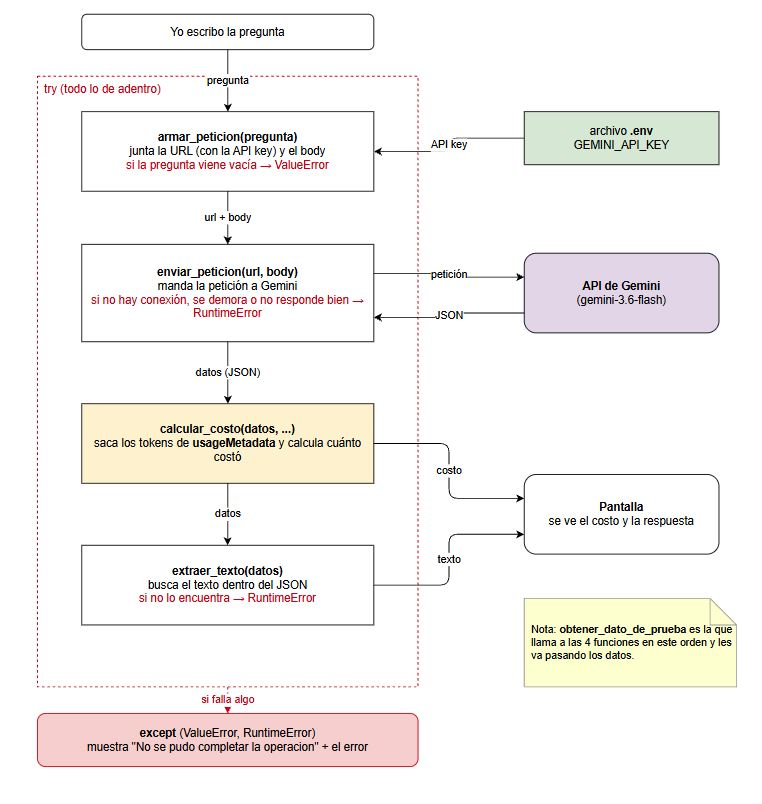
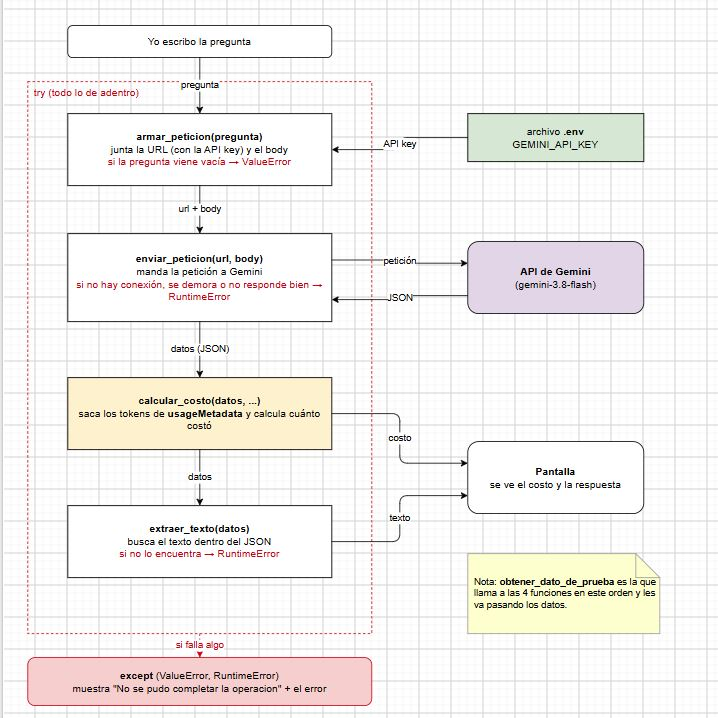
docs: documenta decisión de arquitectura: elección de modelo

Changed region(s): [[0.0, 0.0, 0.9499, 1.0], [0.6435, 0.7354, 0.9805, 0.8886], [0.0, 0.0, 0.0306, 0.0613]]

diff --git a/src/comparar_modelos.py b/src/comparar_modelos.py
@@ -1,0 +1,106 @@
+import time
+
+# Reutilizo las funciones que ya tengo en consumir_gemini.py
+from consumir_gemini import armar_peticion, enviar_peticion, extraer_texto, calcular_costo
+
+# Los 3 modelos a comparar, con su precio POR TOKEN (USD).
+# Fuente: https://ai.google.dev/gemini-api/docs/pricing (consultado el 20-10-2026)
+# La página da el precio por 1 millón de tokens, por eso se divide por 1_000_000.
+MODELOS = {
+    "gemini-3.1-flash-lite": {"entrada": 0.25 / 1_000_000, "salida": 1.50 / 1_000_000},
+    "gemini-3.6-flash":      {"entrada": 0.75 / 1_000_000, "salida": 3.75 / 1_000_000},
+    "gemini-3.8-flash":      {"entrada": 0.75 / 1_000_000, "salida": 3.75 / 1_000_000},
+}
+
+REPETICIONES = 4
+
+# La MISMA pregunta para todos los modelos, relacionada con mi proyecto
+PREGUNTA = (
+    "Trabajé desde el 1 de marzo de 2022 hasta el 15 de septiembre de 2026 con contrato "
+    "indefinido. Mi sueldo era de $850.000 mensuales. Me despidieron por necesidades de la "
+    "empresa y no me dieron aviso previo. ¿Qué me corresponde en el finiquito? "
+    "Responde en máximo 150 palabras e indica los artículos del Código del Trabajo."
+)
+
+
+MAX_INTENTOS = 3   # cuántas veces reintentar si el servicio está saturado
+ESPERA_BASE = 5    # segundos de espera antes del primer reintento (después 10, 15...)
+
+
+# envía la petición y, si Gemini responde 503 (saturado) o 429 (límite de uso),
+# espera un poco y vuelve a intentar. Devuelve los datos y la latencia del intento exitoso.
+def enviar_con_reintentos(url, body):
+    for intento in range(1, MAX_INTENTOS + 1):
+        try:
+            inicio = time.perf_counter()  # empieza el contador
+            datos = enviar_peticion(url, body)
+            fin = time.perf_counter()  # termina el contador
+            return datos, fin - inicio
+        except RuntimeError as error:
+            es_temporal = "503" in str(error) or "429" in str(error)
+            if es_temporal and intento < MAX_INTENTOS:
+                espera = ESPERA_BASE * intento
+                print(f"   (intento {intento} falló: {error}. Reintentando en {espera} s...)")
+                time.sleep(espera)  # la espera queda FUERA del cronómetro
+            else:
+                raise  # no es temporal o se acabaron los intentos: el error sube
+
+
+# hace 4 veces la misma petición con UN modelo e imprime latencia, costo y respuesta
+def probar_modelo(modelo, pregunta):
+    precios = MODELOS[modelo]
+    latencias = []
+    costos = []
+
+    print("\n" + "=" * 70)
+    print(f"MODELO: {modelo}")
+    print("=" * 70)
+
+    for i in range(REPETICIONES):
+        print(f"\n--- Petición {i + 1} de {REPETICIONES} ---")
+        # el try va DENTRO del for: si falla una petición, no se pierden las demás
+        try:
+            url, body = armar_peticion(pregunta, modelo)
+            datos, latencia = enviar_con_reintentos(url, body)
+            costo = calcular_costo(datos, precios["entrada"], precios["salida"])
+            texto = extraer_texto(datos)
+        except (ValueError, RuntimeError) as error:
+            print(f"Petición fallida: {error}")
+            continue  # salta a la siguiente petición
+
+        latencias.append(latencia)
+        costos.append(costo)
+
+        print(f"Latencia: {latencia:.2f} segundos")
+        print(f"Costo: ${costo:.6f} USD")
+        print(f"Respuesta:\n{texto}")
+
+        time.sleep(2)  # pausa fuera del cronómetro, para no chocar con el límite de uso (error 429)
+
+    exitosas = len(latencias)
+    if exitosas == 0:
+        print(f"\n>> {modelo}: ninguna petición funcionó")
+        return None
+
+    promedio_latencia = sum(latencias) / exitosas
+    promedio_costo = sum(costos) / exitosas
+    print(f"\n>> Promedio {modelo} ({exitosas}/{REPETICIONES} exitosas): "
+          f"{promedio_latencia:.2f} s | ${promedio_costo:.6f} USD")
+    return promedio_latencia, promedio_costo, exitosas
+
+
+if __name__ == "__main__":
+    resultados = {}
+    for modelo in MODELOS:
+        resultados[modelo] = probar_modelo(modelo, PREGUNTA)
+
+    print("\n" + "=" * 70)
+    print("RESUMEN")
+    print("=" * 70)
+    print(f"{'Modelo':<25}{'Exitosas':>10}{'Latencia prom.':>16}{'Costo prom. (USD)':>20}")
+    for modelo, resultado in resultados.items():
+        if resultado is None:
+            print(f"{modelo:<25}{'0/' + str(REPETICIONES):>10}{'-':>16}{'-':>20}")
+        else:
+            latencia, costo, exitosas = resultado
+            print(f"{modelo:<25}{f'{exitosas}/{REPETICIONES}':>10}{latencia:>14.2f} s{costo:>20.6f}")

diff --git a/src/consumir_gemini.py b/src/consumir_gemini.py
@@ -1,45 +1,43 @@
 import os
 import requests
 from dotenv import load_dotenv
+import time
 
 load_dotenv()
 
 #Constantes
-MODELO = "gemini-3.6-flash"
+MODELO = "gemini-3.8-flash"  #elegido en docs/decision-arquitectura.md
 URL_BASE = "https://generativelanguage.googleapis.com/v1beta/models/"
 API_KEY = os.getenv("GEMINI_API_KEY")
 
 #función para crear la solicitud
-def armar_peticion(pregunta): #pregunta = "Confirma la conexion"
+#modelo=MODELO: si no le paso un modelo, usa el de siempre
+def armar_peticion(pregunta, modelo=MODELO):
     if not pregunta:
         raise ValueError("La pregunta no puede estar vacia")
-    url = f"{URL_BASE}{MODELO}:generateContent?key={API_KEY}" #url = "https://generativelanguage.googleapis.com/v1beta/models/gemini-3.6-flash:generateContent?key=MI API KEY"
+    url = f"{URL_BASE}{modelo}:generateContent?key={API_KEY}"
     body = {
-        "contents": 
+        "contents":
             [{"parts": [{"text": pregunta}]}]
         }
     return url, body
 
-#armar_peticion_openai -> url, body
-
 #función envía la petición
 def enviar_peticion(url, body):
     try:
-        respuesta = requests.post(url, json=body)
+        respuesta = requests.post(url, json=body, timeout=60) #sin timeout, el except Timeout nunca se activa
     except requests.exceptions.ConnectionError:
         raise RuntimeError("No se pudo conectar con el servicio. Intenta dentro de unos momentos")
     except requests.exceptions.Timeout:
         raise RuntimeError("Se agoto el tiempo. Intenta en unos momentos")
 
     if respuesta.status_code != 200:
-        raise RuntimeError(f"la respuesta del servicio no llego en el formato esperado")
+        raise RuntimeError(f"El servicio respondio con error {respuesta.status_code}")
 
     try:
         return respuesta.json()
     except requests.exceptions.JSONDecodeError:
         raise RuntimeError("La respuesta del servicio no llego en el formato esperado")
-
-    
 
 #funcion procesa y extrae dato
 def extraer_texto(datos): #Gemini
@@ -48,29 +46,31 @@ def extraer_texto(datos): #Gemini
     except (KeyError, IndexError):
         raise RuntimeError("la respuesta no recibe el texto generado en el lugar definido.")
 
-def obtener_dato_de_prueba(pregunta): #pregunta = "Confirma la conexion"
+def obtener_dato_de_prueba(pregunta):
     url, body = armar_peticion(pregunta) #obtiene url y body
-    #url = resultado de armar_peticion
-    #body = resultado de armar_peticion
+
+    inicio = time.perf_counter() #empezar contador
     datos = enviar_peticion(url, body)
+    fin = time.perf_counter() #termina el contador
+    latencia = fin - inicio
+    print(f"Latencia {latencia:.2f} segundos")
+
     costo = calcular_costo(datos, 0.00000075, 0.00000375)
     print(f"Costo de la peticion: ${costo:.6f} USD")
     return extraer_texto(datos)
 
-#def calcular_costo(datos: dict, precio_entrada: float, precio_salida: float) - float:
-def calcular_costo(datos, precio_entrada, Precio_salida):
+def calcular_costo(datos, precio_entrada, precio_salida):
     uso = datos["usageMetadata"]
     tokens_entrada = uso["promptTokenCount"]
-    tokens_salida = uso["candidatesTokenCount"]
-    tokens_razonamiento = uso["thoughtsTokenCount"]
-    costo = (tokens_entrada * precio_entrada) + ((tokens_salida + tokens_razonamiento) * Precio_salida)
+    tokens_salida = uso.get("candidatesTokenCount", 0)
+    tokens_razonamiento = uso.get("thoughtsTokenCount", 0) #si el modelo no "piensa", este campo no viene
+    costo = (tokens_entrada * precio_entrada) + ((tokens_salida + tokens_razonamiento) * precio_salida)
     return costo
 
-try:
-    print(obtener_dato_de_prueba("Confirma en una frase corta que esta conexión funciona"))
-except (ValueError, RuntimeError) as error:
-    print("No se pudo completar la operacion: ", error)
-
-
-
-
+#esto solo se ejecuta si corro ESTE archivo directamente (python consumir_gemini.py),
+#NO cuando otro archivo hace "from consumir_gemini import ..."
+if __name__ == "__main__":
+    try:
+        print(obtener_dato_de_prueba("Confirma en una frase corta que esta conexión funciona"))
+    except (ValueError, RuntimeError) as error:
+        print("No se pudo completar la operacion: ", error)

diff --git a/docs/decision-arquitectura.md b/docs/decision-arquitectura.md
@@ -1,0 +1,74 @@
+# Decisión de arquitectura: elección de modelo
+
+**Proyecto:** Asistente Laboral (finiquito, vacaciones proporcionales e indemnización por años de servicio)
+**Autor:** Gonzalo Vera
+**Fecha:** 20 de octubre de 2026
+
+## Modelo elegido
+
+**`gemini-3.8-flash`** (Google Gemini API)
+
+## Diagrama de arquitectura
+
+Así fluye una pregunta en mi miniaplicación. El modelo elegido es el que va en la caja "API de Gemini".
+
+![Diagrama de arquitectura de la miniaplicación](diagrama_arquitectura.png)
+
+Archivo editable: [`diagrama_arquitectura.drawio`](diagrama_arquitectura.drawio)
+
+## Comparación de candidatos
+
+Mandé **la misma pregunta 4 veces** a cada modelo con el script `comparar_modelos.py`, que reutiliza las funciones de `consumir_gemini.py`:
+
+> Trabajé desde el 1 de marzo de 2022 hasta el 15 de septiembre de 2026 con contrato indefinido. Mi sueldo era de $850.000 mensuales. Me despidieron por necesidades de la empresa y no me dieron aviso previo. ¿Qué me corresponde en el finiquito? Responde en máximo 150 palabras e indica los artículos del Código del Trabajo.
+
+La respuesta correcta tiene que incluir:
+- Aviso previo: 1 sueldo, $850.000 (art. 161 y 162).
+- Años de servicio: **5 años = $4.250.000**. Son 4 años, 6 meses y 14 días, y la fracción de más de 6 meses cuenta como año completo (art. 163).
+- Feriado proporcional (art. 73).
+
+| Criterio | gemini-3.1-flash-lite | gemini-3.6-flash | gemini-3.8-flash |
+|---|---|---|---|
+| Precio entrada (USD por 1M tokens) | 0,25 | 0,75 | 0,75 |
+| Precio salida (USD por 1M tokens) | 1,50 | 3,75 | 3,75 |
+| Peticiones exitosas | 4/4 | 3/4 (una falló por error 503) | 4/4 |
+| Costo promedio por petición | $0,000446 | $0,006520 | $0,004458 |
+| Latencia promedio | 9,17 s | 10,19 s | 31,41 s |
+| Rango de latencia | 3,85 – 14,18 s | 10,14 – 10,22 s | 21,09 – 41,26 s |
+| Calculó bien los 5 años | 2 de 4 | 3 de 3 | 4 de 4 |
+| Artículos citados | Correctos | Uno equivocado (art. 156 para feriado) | Correctos |
+| Consistencia entre respuestas | Baja | Alta, pero una respuesta llegó cortada | Alta |
+| **Calidad para mi caso** | **Mala** | **Buena** | **Muy buena** |
+
+*Precios del plan pagado, sacados de la [página de precios de Gemini](https://ai.google.dev/gemini-api/docs/pricing) el 20-10-2026. Los Flash suben al doble desde el 1 de enero de 2027. Uso el plan gratuito, así que el costo es lo que pagaría en el plan pagado y sirve para comparar.*
+
+El detalle de cada modelo está en [`comparacion_modelos.md`](comparacion_modelos.md).
+
+## Justificación
+
+**El criterio que más pesó fue la calidad de la respuesta para mi caso.**
+
+Mi asistente le dice a una persona cuánto le corresponde en su finiquito. Si el modelo calcula mal los años o cita un artículo que no es, la persona podría firmar recibiendo menos plata de la que le corresponde. Por eso, que la respuesta sea correcta y no invente artículos es uno de mis criterios críticos del proyecto.
+
+`gemini-3.8-flash` fue el único que respondió **bien las 4 veces**, con los artículos correctos y sin cambiar el cálculo entre una respuesta y otra.
+
+Además salió **un 32% más barato por petición** que `gemini-3.6-flash`. Los dos cobran lo mismo por token, pero el 3.8 usó menos tokens.
+
+**Lo que acepto a cambio:** es el más lento, con unos 31 segundos promedio. Lo acepto porque:
+- la prueba la hice con Gemini saturado (hubo varios errores 503), así que voy a volver a medir en otro horario;
+- para mi caso, una respuesta correcta en 30 segundos vale más que una equivocada en 10.
+
+## Alternativa descartada y por qué
+
+**`gemini-3.1-flash-lite`**
+- **Descartado por calidad.** En 2 de las 4 respuestas calculó **4 años** de indemnización en vez de 5, y en una prueba anterior inventó un recargo del 30% que no corresponde.
+- Para la misma pregunta, a veces decía 5 años y a veces 4.
+- Es unas 15 veces más barato, pero un asistente legal que se equivoca la mitad de las veces no sirve, por barato que sea.
+
+**`gemini-3.6-flash`**
+- **Descartado, pero queda como alternativa.** Es 3 veces más rápido (10 s) y calculó bien los años.
+- Quedó fuera por tres razones:
+  - citó el **art. 156** para el feriado proporcional, cuando el que corresponde es el art. 73;
+  - una de sus respuestas **llegó cortada**;
+  - fue **el más caro** por petición.
+- Si al volver a medir la latencia del 3.8 sigue sobre 30 segundos, reconsideraría el 3.6. Eso sí, tendría que validar sus citas de artículos.
